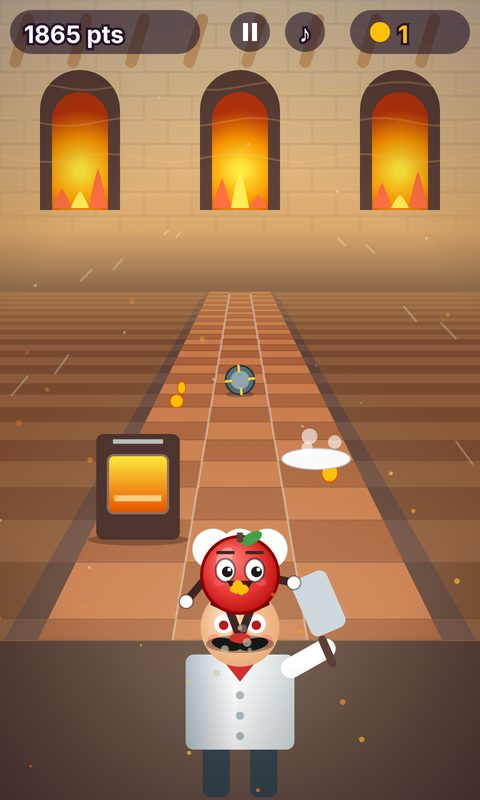
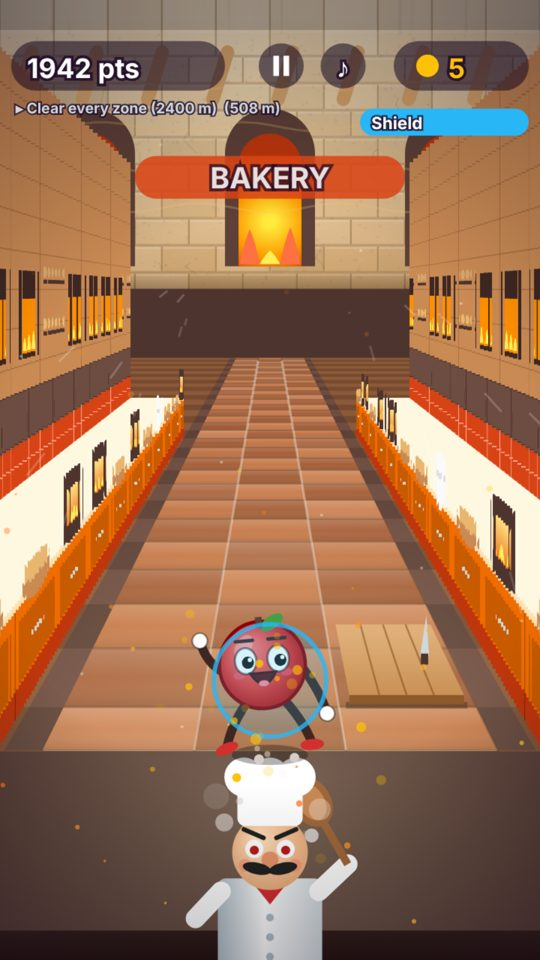
Add files via upload

diff --git a/www/index.html b/www/index.html
@@ -17,7 +17,7 @@ canvas{background:#000;touch-action:none;user-select:none;-webkit-user-select:no
 const cv=document.getElementById('c'),ctx=cv.getContext('2d',{alpha:false,desynchronized:true});
 const W=480,H=800,HOR=230,GY=640,LW=135,CX=240;
 let VH=H,DY=0,rdy=0;
-function fit(){const ar=innerHeight/innerWidth,o=VH;VH=ar>H/W?Math.min(1100,Math.round(W*ar)):H;DY=(VH-H)/2;const s=Math.min(innerWidth/W,innerHeight/VH);cv.style.width=W*s+'px';cv.style.height=VH*s+'px';if(rdy&&o!=VH)setQ()}
+function fit(){if(document.getElementById('nm'))return;const ar=innerHeight/innerWidth,o=VH;VH=ar>H/W?Math.min(1100,Math.round(W*ar)):H;DY=(VH-H)/2;const s=Math.min(innerWidth/W,innerHeight/VH);cv.style.width=W*s+'px';cv.style.height=VH*s+'px';if(rdy&&o!=VH){cv.width=W*R;cv.height=VH*R}}
 addEventListener('resize',fit);fit();
 let R=1,WT={};function setQ(){WT={};R=Q=='low'?1:Math.min(1.5,Math.max(1.25,(window.devicePixelRatio||1)*.6));cv.width=W*R;cv.height=VH*R}
 rdy=1;
@@ -99,6 +99,8 @@ function pr(x,y,cur,n,sz,col){ctx.font='bold '+sz+'px "Trebuchet MS",system-ui,s
 function pills(){ctx.fillStyle='rgba(20,8,32,.55)';ctx.beginPath();ctx.roundRect(10,10,118,36,18);ctx.roundRect(136,10,118,36,18);ctx.fill();coinI(30,28,9);tx(''+bank,46,36,20,'#ffc107','left');gem(156,28,11);tx(''+gems,172,36,20,'#4dd0e1','left')}
 const SHOPI=[{n:'Kalkan',d:'Sonraki koşu: kalkanla başla',c:120,col:'#29b6f6',ic:'K'},{n:'Mıknatıs',d:'Sonraki koşu: 10 sn mıknatıs',c:100,col:'#ef5350',ic:'M'},{n:'Güç Uzatıcı',d:'Mıknatıs ve x2 süresi +1 sn',c:[400,700,1000,1500,2000],col:'#ab47bc',ic:'+'},{n:'Şef Kovucu',d:'Şef daha çabuk geri çekilir',c:[500,900,1400],col:'#78909c',ic:'Ş'}];
 function itemCost(i){return i<2?SHOPI[i].c:(UP[i-2]>=SHOPI[i].c.length?-1:SHOPI[i].c[UP[i-2]])}
+function oldIAP(k){const p=priceOf(k),m=(''+p).match(/[\d.,]+/);if(!m)return'';const c=m[0].includes(',');let n=parseFloat(c?m[0].replace(/\./g,'').replace(',','.'):m[0]);if(!(n>0))return'';let o=(n*2).toFixed(2);if(c)o=o.replace('.',',');return(''+p).replace(m[0],o)}
+function oldP(x,y,n,sz){ctx.font=sz+'px sans-serif';const w=ctx.measureText(''+n).width;tx(''+n,x,y,sz,'#cfd8dc');ctx.fillStyle='#ff5252';ctx.fillRect(x-w/2,y-sz*.32,w,2)}
 function poor(m){adNote(m);snd(180,.2,'square',.06,-60)}
 function buyGem(n,c){const d=DK();if(!ts.gc||ts.gc.d!=d)ts.gc={d,n:0};if(ts.gc.n+n>5){poor(LANG=='en'?'Daily gem limit (5) reached':'Günlük elmas limiti (5) doldu');return}if(bank>=c){ts.gc.n+=n;bank-=c;gems+=n;sv();snd(900,.12,'square',.06,500);snd(1300,.2,'triangle',.07,300);adNote('Elmas aldın!')}else poor('Yeterli altın yok')}
 function buyItem(i){const c=itemCost(i);if(c<0)return;if(i<2&&IV[i]>=9){adNote('Envanter dolu');return}if(bank<c){poor('Yeterli altın yok');return}bank-=c;if(i<2)IV[i]++;else UP[i-2]++;sv();snd(700,.15,'triangle',.08,400);adNote('Satın alındı!')}
@@ -202,7 +204,7 @@ function act(a){
  if(a=='D'){if(g.jy>0)g.vy=-16;else{g.sl=sel==1?1.15:.7;g.cs3++;snd(260,.2,'sawtooth',.04,-150)}}
 }
 addEventListener('keydown',e=>{
- if(document.getElementById('nm'))return;const k=e.key;if(spl>0){spl=Math.min(spl,.5);return}
+ if(document.getElementById('nm'))return;const k=e.key;if(spl>0){if(warmI>=4)spl=Math.min(spl,.5);return}
  if(['ArrowLeft','ArrowRight','ArrowUp','ArrowDown',' '].includes(k))e.preventDefault();
  unlock();if(k=='m'||k=='M'){toggleAll();return}if(paused){if(k=='p'||k=='P'||k=='Escape'||k==' '||k=='Enter')paused=false;return}if(st=='play'&&(k=='p'||k=='P'||k=='Escape')){paused=true;return}
  if(st=='play'&&g.stuck){if(k==' '||k=='Enter')spam();return}
@@ -216,7 +218,7 @@ addEventListener('keydown',e=>{
 });
 let p0=null;
 const pos=e=>{const r=cv.getBoundingClientRect();return[(e.clientX-r.left)*W/r.width,(e.clientY-r.top)*VH/r.height-DY]};
-cv.addEventListener('pointerdown',e=>{unlock();if(spl>0){spl=Math.min(spl,.5);return}if(adT>0)return;if(paused){paused=false;return}if(st=='play'&&g.stuck)spam();p0={x:e.clientX,y:e.clientY,done:0};cv.setPointerCapture(e.pointerId)});
+cv.addEventListener('pointerdown',e=>{unlock();if(spl>0){if(warmI>=4)spl=Math.min(spl,.5);return}if(adT>0)return;if(paused){paused=false;return}if(st=='play'&&g.stuck)spam();p0={x:e.clientX,y:e.clientY,done:0};cv.setPointerCapture(e.pointerId)});
 cv.addEventListener('pointermove',e=>{
  if(!p0||p0.done||st!='play')return;
  const dx=e.clientX-p0.x,dy=e.clientY-p0.y;
@@ -228,15 +230,15 @@ cv.addEventListener('pointerup',e=>{
  if(st=='ob'){if(inR(110,700,260,60))obNext();else if(obS==0&&inR(130,770,220,30)){obd=1;sv();st='menu'}return}
  if(st=='menu'){
   if(inR(120,560,240,76)){goSel();snd(520,.08,'sine',.06)}
-  else if(dailyR()&&inR(110,215,260,42))claim();
+  else if(dailyR()&&inR(110,286,260,42))claim();
   else if(inR(262,10,208,36)){st='prof';snd(520,.06,'sine',.05)}
-  else{for(let i=0;i<6;i++){if(Math.hypot(x-NAVX[i],y-714)<34){snd(520,.06,'sine',.05);const k=NAVK[i];if(k=='lb'){st='lb';lbTab=LBU?1:0;lbData=null;if(LBU)lbFetch()}else if(k=='cos'){st='cos';cview=sel;cprev=seq[sel]}else if(k=='badges'){st='badges';bpg=0;bsel=0}else st=k}}}
+  else{for(let i=0;i<6;i++){if(Math.hypot(x-NAVX[i],y-714)<34){snd(520,.06,'sine',.05);const k=NAVK[i];if(k=='lb'){st='lb';lbTab=1;lbData=null;if(LBU)lbFetch()}else if(k=='cos'){st='cos';cview=sel;cprev=seq[sel]}else if(k=='badges'){st='badges';bpg=0;bsel=0}else st=k}}}
  }else if(st=='select'){
   for(let i=0;i<8;i++){const x0=8+(i%4)*115,y0=392+(i>>2)*102;if(inR(x0,y0,107,94)){view=i;if(have[i]){sel=i;sv()}snd(520,.05,'sine',.05)}}
   if(inR(100,610,280,70))selAction();
   else if(inR(120,696,240,56))st='menu';
  }else if(st=='lb'){
-  if(inR(20,108,140,40))lbTab=0;else if(inR(170,108,140,40)){lbTab=1;lbData=null;lbFetch()}else if(inR(320,108,140,40)){lbTab=2;lbData=null;lbFetch()}else if(inR(130,624,220,42))rename();else if(inR(120,700,240,52))st='menu';
+  if(inR(50,108,180,40)){lbTab=1;lbData=null;lbFetch()}else if(inR(250,108,180,40)){lbTab=2;lbData=null;lbFetch()}else if(inR(130,624,220,42))rename();else if(inR(120,700,240,52))st='menu';
  }else if(st=='cos'){
   const k=cview;if(Math.hypot(x-(CX-170),y-250)<34){cview=(cview+7)%8;cprev=seq[cview];snd(520,.05,'sine',.05)}else if(Math.hypot(x-(CX+170),y-250)<34){cview=(cview+1)%8;cprev=seq[cview];snd(520,.05,'sine',.05)}
   for(let j=-1;j<2;j++)if(inR(14+(j+1)*154,350,146,150)){cprev=j+1;snd(520,.05,'sine',.05)}
@@ -430,7 +432,7 @@ function progress(s){const tot=Math.floor(s/25)+5,x=Math.max(0,tot-(g.xpP||0));g
 // haftalık
 const WK=()=>Math.floor((Date.now()/864e5+3)/7),wkLeft=()=>{const e=((WK()+1)*7-3)*864e5-Date.now(),d=Math.floor(e/864e5),h=Math.floor(e%864e5/36e5);return d+(LANG=='en'?'d ':'g ')+h+(LANG=='en'?'h':'s')};
 function wkPost(s){if(!LBU)return;const w=WK();if(!ts.wb||ts.wb.w!=w)ts.wb={w,s:0};if(s<=ts.wb.s)return;ts.wb.s=s;sv();try{fetch(LBU+'/weekly/'+w+'/'+uid+'.json',{method:'PUT',body:JSON.stringify({n:pname,s,t:Date.now()})}).catch(()=>{})}catch(e){}}
-function wkReward(){if(!LBU)return;const pw=WK()-1,id='w'+pw;if(ecl.includes(id))return;fetch(LBU+'/weekly/'+pw+'.json?orderBy='+encodeURIComponent('"s"')+'&limitToLast=3').then(r=>r.json()).then(d=>{if(!d||d.error)return;const L=Object.entries(d).filter(([k,v])=>v&&typeof v.s=='number').sort((a,b)=>b[1].s-a[1].s),i=L.findIndex(e=>e[0]==uid);ecl.push(id);if(i>=0){const gm=[10,5,3][i];gems+=gm;ntoast((LANG=='en'?'Weekly rank #':'Haftalık sıralama #')+(i+1)+'!',(LANG=='en'?'Reward: +':'Ödül: +')+gm+(LANG=='en'?' gems':' elmas'),'#e65100')}sv()}).catch(()=>{})}
+function wkReward(){if(!LBU)return;const pw=WK()-1,id='w'+pw;if(ecl.includes(id))return;fetch(LBU+'/weekly/'+pw+'.json?orderBy='+encodeURIComponent('"s"')+'&limitToLast=1').then(r=>r.json()).then(d=>{if(!d||d.error)return;const L=Object.entries(d).filter(([k,v])=>v&&typeof v.s=='number').sort((a,b)=>b[1].s-a[1].s),i=L.findIndex(e=>e[0]==uid);ecl.push(id);if(i>=0){if(i>0){sv();return}const gm=3;gems+=gm;ntoast((LANG=='en'?'Weekly rank #':'Haftalık sıralama #')+(i+1)+'!',(LANG=='en'?'Reward: +':'Ödül: +')+gm+(LANG=='en'?' gems':' elmas'),'#e65100')}sv()}).catch(()=>{})}
 // premium / ödeme
 const PAY={prices:{premium:'₺149,99',noads:'₺49,99',g50:'₺29,99',g150:'₺79,99',g400:'₺169,99'}},PID={premium:'premium_chef',noads:'remove_ads',g50:'gems_50',g150:'gems_150',g400:'gems_400'},GEMQ={gems_50:50,gems_150:150,gems_400:400};
 let IAP=null;
@@ -472,12 +474,13 @@ function drawIntro(dt){spl-=dt;const T0=3.4,e=T0-spl,p=Math.min(1,e/2.9),a=Math.
  ctx.save();ctx.globalAlpha=a;const bgG=ctx.createLinearGradient(0,0,0,H);bgG.addColorStop(0,'#2b1240');bgG.addColorStop(1,'#0e0516');ctx.fillStyle=bgG;ctx.fillRect(0,0,W,H);
  const sp=ctx.createRadialGradient(CX,520,20,CX,520,400);sp.addColorStop(0,'rgba(255,214,140,.3)');sp.addColorStop(1,'rgba(255,214,140,0)');ctx.fillStyle=sp;ctx.fillRect(0,0,W,H);
  ctx.fillStyle='rgba(255,255,255,.05)';for(let i=0;i<9;i++){const y=380+((i*70+e*260)%420);ctx.fillRect(0,y,W,2+(y-380)*.02)}
- const tk=ez(e/.8);if(LG.complete&&LG.naturalWidth){ctx.save();ctx.globalAlpha=a*tk;ctx.translate(CX,205);const k=(.75+.25*tk)*.92;ctx.scale(k,k);ctx.shadowColor='rgba(0,0,0,.5)';ctx.shadowBlur=24;ctx.beginPath();ctx.roundRect(-175,-175,350,350,40);ctx.fillStyle='#000';ctx.fill();ctx.shadowBlur=0;ctx.save();ctx.clip();ctx.drawImage(LG,-175,-175,350,350);ctx.restore();ctx.strokeStyle='#ffd54f';ctx.lineWidth=4;ctx.stroke();ctx.restore()}else{tx('ESCAPE FROM THE CHEF',CX,200,34,'#ffd54f')}
+ const tk=ez(e/.8);if(LG.complete&&LG.naturalWidth){ctx.save();ctx.globalAlpha=a*tk;ctx.translate(CX,205);const k=(.75+.25*tk)*.92;ctx.scale(k,k);ctx.beginPath();ctx.roundRect(-175,-175,350,350,40);ctx.fillStyle='#000';ctx.fill();ctx.save();ctx.clip();ctx.drawImage(LG,-175,-175,350,350);ctx.restore();ctx.strokeStyle='#ffd54f';ctx.lineWidth=4;ctx.stroke();ctx.restore()}else{tx('ESCAPE FROM THE CHEF',CX,200,34,'#ffd54f')}
  const x=-90+(CX+90)*ez(e/1.5),y=590-Math.abs(Math.sin(e*9))*10;ctx.fillStyle='rgba(0,0,0,.35)';ctx.beginPath();ctx.ellipse(x,596,60,12,0,0,7);ctx.fill();
  chef(x-230+Math.sin(e*3)*6,830,62,e,0);fruit(0,x,y,100,e*9,0,0);
  ctx.fillStyle='rgba(255,255,255,.14)';ctx.beginPath();ctx.roundRect(90,690,300,16,8);ctx.fill();ctx.fillStyle='#66bb6a';ctx.beginPath();ctx.roundRect(90,690,Math.max(16,300*p),16,8);ctx.fill();
  tx((LANG=='en'?'Loading... ':'Yükleniyor... ')+Math.floor(p*100)+'%',CX,676,18,'#fff');tx(TIPS[Math.floor(e/.9)%TIPS.length][LANG=='en'?1:0],CX,736,15,'#ffd54f');
  ctx.restore();
+ if(warmI<4){spl=Math.max(spl,.6);ctx.fillStyle='rgba(0,0,0,.35)';ctx.fillRect(140,742,200,10);ctx.fillStyle='#ffd54f';ctx.fillRect(140,742,200*warmI/4,10);ctx.fillStyle='#fff';ctx.font='bold 14px sans-serif';ctx.textAlign='center';ctx.fillText('Yükleniyor...',240,732)}
  if(spl<=0){spl=0;if(!obd&&st=='menu'){st='ob';obS=0}}}
 function tutStart(){reset();g.cd=1.3;g.sp=8;st='play';Object.assign(tut,{on:1,s:0,c:0,t:0,sp:0})}
 function tutNext(){tut.s++;tut.sp=0;tut.t=0;snd(660,.15,'triangle',.1,300);burst(CX+g.px*LW,GY-60,'#ffd54f',12)}
@@ -630,12 +633,17 @@ function ambFg(zi){if(Q=='low'&&zi!=1&&zi!=3)return;const t=g.t,n=Q=='low'?.5:1;
  else if(zi==2){for(let i=0;i<16*n;i++){const x=(i*71)%W,y=(i*109)%H*.9+20,k=(Math.sin(t*2.4+i*1.9)+1)/2,r=2+k*4;ctx.fillStyle='rgba(255,224,130,'+(k*.9)+')';ctx.beginPath();ctx.moveTo(x,y-r);ctx.lineTo(x+r*.3,y-r*.3);ctx.lineTo(x+r,y);ctx.lineTo(x+r*.3,y+r*.3);ctx.lineTo(x,y+r);ctx.lineTo(x-r*.3,y+r*.3);ctx.lineTo(x-r,y);ctx.lineTo(x-r*.3,y-r*.3);ctx.fill()}}
  else{for(let i=0;i<34*n;i++){const ph=(t*.35*(1+i%3*.4)+i*.137)%1,x=((i*61)%W)+Math.sin(t*2+i)*14,y=H-ph*H*.85;ctx.fillStyle='rgba(255,'+(120+i%4*30)+',40,'+((1-ph)*.9)+')';ctx.beginPath();ctx.arc(x,y,1.2+(i%3)*.8,0,7);ctx.fill()}
   ctx.fillStyle='rgba(255,255,255,.35)';for(let i=0;i<12*n;i++){const x=((i*89)%W+t*14+W)%W,y=(i*47+t*10)%H;ctx.beginPath();ctx.arc(x,y,1.4,0,7);ctx.fill()}}}
+function farSide(PL,zi,zA){const zB=zA+(Q=='low'?26:60),sa=S(zA),sb=S(zB),ya=Yz(zA),yb=Yz(zB),W0=['#fff3e0','#e3f2fd','#6a1b4d','#c98a54'][zi];
+ for(const m of[-1,1]){const xi=(s,o)=>CX+m*(1.8+o)*LW*s,q=(o0,o1,hA,hB,f)=>{ctx.fillStyle=f;ctx.beginPath();ctx.moveTo(xi(sa,o0),ya-hA*sa);ctx.lineTo(xi(sb,o0),yb-hA*sb);ctx.lineTo(xi(sb,o1),yb-hB*sb);ctx.lineTo(xi(sa,o1),ya-hB*sa);ctx.fill()};
+  q(1.1,1.1,248,760,W0);q(1.1,1.1,170,250,zi==2?'#8d6e63':PL.up);q(1.1,1.1,104,170,PL.bs);q(0,1.1,104,104,PL.top);q(0,0,0,104,PL.b);
+  ctx.strokeStyle='rgba(0,0,0,.2)';ctx.lineWidth=1;ctx.beginPath();for(let z=Math.ceil(zA/4.8)*4.8;z<zB;z+=4.8){const s2=S(z),y2=Yz(z);ctx.moveTo(xi(s2,0),y2);ctx.lineTo(xi(s2,0),y2-104*s2);ctx.moveTo(xi(s2,1.1),y2-104*s2);ctx.lineTo(xi(s2,1.1),y2-250*s2)}ctx.stroke()}}
 function sideProps(zi){const t=g.t,SL=2.4,k0=Math.floor(g.d/SL),PL=[
  {b:'#26c6da',b2:'#00838f',tr:'#ffffff',top:'#ffcc80',up:'#ff7043',bs:'#fffde7',bl:'#ffab91'},
  {b:'#4fc3f7',b2:'#0277bd',tr:'#ffffff',top:'#e1f5fe',up:'#7e57c2',bs:'#e1f5fe',bl:'#90caf9'},
  {b:'#8e24aa',b2:'#4a148c',tr:'#ffd54f',top:'#fff3e0',up:'#c62828',bs:'#ffe0b2',bl:'#ffca28'},
  {b:'#ef6c00',b2:'#bf360c',tr:'#ffe0b2',top:'#fff8e1',up:'#6d4c41',bs:'#d84315',bl:'#ffab91'}][zi];
- for(let k=k0+(Q=='low'?7:9);k>=k0;k--){const za=Math.max(.05,k*SL-g.d),zb=k*SL+SL-g.d;if(zb<=.05)continue;const sa=S(za),sb=S(zb),ya=Yz(za),yb=Yz(zb);
+ farSide(PL,zi,(k0+(Q=='low'?8:10))*SL-g.d);
+ for(let k=k0+(Q=='low'?7:9);k>=k0;k--){const za=Math.max(.05,k*SL-g.d),zb=k*SL+SL-g.d;if(zb<=.05)continue;const sa=S(za),sb=S(zb),ya=Yz(za),yb=Yz(zb),far=za>13;
   for(const m of[-1,1]){const hs=((k*2654435761^(m>0?97:13))>>>0),h0=hs%100,xi=(s,o)=>CX+m*(1.8+o)*LW*s,H1=104,H2=170,H3=250;
    const Q4=(o0,o1,hA,hB)=>{ctx.beginPath();ctx.moveTo(xi(sa,o0),ya-hA*sa);ctx.lineTo(xi(sb,o0),yb-hA*sb);ctx.lineTo(xi(sb,o1),yb-hB*sb);ctx.lineTo(xi(sa,o1),ya-hB*sa);ctx.closePath();ctx.fill()};
 
@@ -651,7 +659,7 @@ function sideProps(zi){const t=g.t,SL=2.4,k0=Math.floor(g.d/SL),PL=[
      else if(wd==2){box(.4,.6,300,470,'#fff');box(.47,.53,310,390,'#e53935');ctx.fillStyle='#e53935';const c0=P(.5,305);ctx.beginPath();ctx.arc(c0[0],c0[1],9*sm2,0,7);ctx.fill()}
      else{for(let j=0;j<3;j++){box(.08+j*.3,.34+j*.3,330,336,'#81d4fa');box(.12+j*.3,.3+j*.3,336,372,'#b3e5fc')}}}
     else if(zi==2){if(wd<2){box(.18,.82,300,450,'#ffd54f');box(.24,.76,308,442,wd?'#9575cd':'#26a69a');box(.3,.7,330,380,'rgba(255,255,255,.25)')}
-     else{const c0=P(.5,400);const gl=ctx.createRadialGradient(c0[0],c0[1],2,c0[0],c0[1],70*sm2);gl.addColorStop(0,'rgba(255,224,130,.8)');gl.addColorStop(1,'rgba(255,224,130,0)');ctx.fillStyle=gl;ctx.fillRect(c0[0]-70*sm2,c0[1]-70*sm2,140*sm2,140*sm2);ctx.fillStyle='#ffd54f';ctx.beginPath();ctx.arc(c0[0],c0[1],12*sm2,0,7);ctx.fill();box(.46,.54,300,380,'#6d4c41')}}
+     else{const c0=P(.5,400);ctx.fillStyle='rgba(255,224,130,.22)';ctx.beginPath();ctx.arc(c0[0],c0[1],52*sm2,0,7);ctx.fill();ctx.fillStyle='rgba(255,224,130,.3)';ctx.beginPath();ctx.arc(c0[0],c0[1],28*sm2,0,7);ctx.fill();ctx.fillStyle='#ffd54f';ctx.beginPath();ctx.arc(c0[0],c0[1],12*sm2,0,7);ctx.fill();box(.46,.54,300,380,'#6d4c41')}}
     else{if(wd<2){box(.2,.8,300,440,'#3e2723');box(.27,.73,308,395,'#ff8f00');for(let j=0;j<3;j++){const c0=P(.36+j*.14,312),hh=(34+14*Math.sin(t*12+j*2+k))*sm2;ctx.fillStyle='#ffee58';ctx.beginPath();ctx.moveTo(c0[0]-9*sm2,c0[1]);ctx.quadraticCurveTo(c0[0],c0[1]-hh*1.2,c0[0]+9*sm2,c0[1]);ctx.fill()}}
      else{box(.08,.92,330,337,'#4e342e');for(let j=0;j<4;j++){const c0=P(.16+j*.2,350);ctx.fillStyle='#e8b66e';ctx.beginPath();ctx.ellipse(c0[0],c0[1],15*sm2,10*sm2,0,0,7);ctx.fill()}box(.08,.92,420,427,'#4e342e');for(let j=0;j<4;j++){const c0=P(.16+j*.2,440);ctx.fillStyle='#d7a86e';ctx.beginPath();ctx.ellipse(c0[0],c0[1],15*sm2,10*sm2,0,0,7);ctx.fill()}}}}
    // counter body (inner face)
@@ -662,12 +670,12 @@ function sideProps(zi){const t=g.t,SL=2.4,k0=Math.floor(g.d/SL),PL=[
    ctx.fillStyle=PL.top;ctx.beginPath();ctx.moveTo(xi(sa,0),ya-H1*sa);ctx.lineTo(xi(sb,0),yb-H1*sb);ctx.lineTo(xi(sb,1.1),yb-H1*sb);ctx.lineTo(xi(sa,1.1),ya-H1*sa);ctx.fill();
    ctx.strokeStyle=PL.tr;ctx.lineWidth=Math.max(1.5,4*sa);ctx.beginPath();ctx.moveTo(xi(sa,0),ya-H1*sa);ctx.lineTo(xi(sb,0),yb-H1*sb);ctx.stroke();
    // handles
-   ctx.fillStyle='#cfd8dc';{const o=.0,zc=(za+zb)/2,sc=S(zc),yc=Yz(zc);ctx.fillRect(xi(sc,o)-m*0-3*sc,yc-50*sc,6*sc,4*sc)}
+   if(!far){ctx.fillStyle='#cfd8dc';{const o=.0,zc=(za+zb)/2,sc=S(zc),yc=Yz(zc);ctx.fillRect(xi(sc,o)-m*0-3*sc,yc-50*sc,6*sc,4*sc)}}
    const zm=(za+zb)/2,sm=S(zm),ym=Yz(zm),px=xi(sm,.3),py=ym-H1*sm,kd=h0%6;
    ctx.fillStyle=PL.bs;Q4(1.1,1.1,H1,H2);ctx.strokeStyle=PL.bl;ctx.lineWidth=Math.max(1,2*sa);ctx.beginPath();for(const hh of[H1,(H1+H2)/2,H2]){ctx.moveTo(xi(sa,1.1),ya-hh*sa);ctx.lineTo(xi(sb,1.1),yb-hh*sb)}ctx.moveTo(xi(sa,1.1),ya-H1*sa);ctx.lineTo(xi(sa,1.1),ya-H2*sa);ctx.stroke();
    // items on worktop
    if(zi==0){
-    ctx.save();ctx.translate(px,py);ctx.scale(1.55,1.55);ctx.translate(-px,-py);if(kd==0||kd==3){ctx.fillStyle='#455a64';ctx.beginPath();ctx.ellipse(px,py-22*sm,26*sm,9*sm,0,0,7);ctx.fill();ctx.fillRect(px-26*sm,py-22*sm,52*sm,22*sm);ctx.fillStyle='#37474f';ctx.beginPath();ctx.ellipse(px,py,26*sm,9*sm,0,0,7);ctx.fill();ctx.fillStyle='#263238';ctx.beginPath();ctx.ellipse(px,py-22*sm,26*sm,9*sm,0,0,7);ctx.fill();if(Q!='low'){ctx.fillStyle='rgba(255,255,255,.75)';for(let q=0;q<3;q++){const ph=(t*.9+q*.33+k*.37)%1;ctx.globalAlpha=1-ph;ctx.beginPath();ctx.arc(px+Math.sin(ph*5+q)*6*sm,py-30*sm-ph*60*sm,(8+ph*12)*sm,0,7);ctx.fill()}ctx.globalAlpha=1}}
+    ctx.save();ctx.translate(px,py);ctx.scale(1.55,1.55);ctx.translate(-px,-py);if(kd==0||kd==3){ctx.fillStyle='#455a64';ctx.beginPath();ctx.ellipse(px,py-22*sm,26*sm,9*sm,0,0,7);ctx.fill();ctx.fillRect(px-26*sm,py-22*sm,52*sm,22*sm);ctx.fillStyle='#37474f';ctx.beginPath();ctx.ellipse(px,py,26*sm,9*sm,0,0,7);ctx.fill();ctx.fillStyle='#263238';ctx.beginPath();ctx.ellipse(px,py-22*sm,26*sm,9*sm,0,0,7);ctx.fill();if(Q!='low'&&!far){ctx.fillStyle='rgba(255,255,255,.75)';for(let q=0;q<3;q++){const ph=(t*.9+q*.33+k*.37)%1;ctx.globalAlpha=1-ph;ctx.beginPath();ctx.arc(px+Math.sin(ph*5+q)*6*sm,py-30*sm-ph*60*sm,(8+ph*12)*sm,0,7);ctx.fill()}ctx.globalAlpha=1}}
     else if(kd==1){ctx.fillStyle='#c58c4f';ctx.beginPath();ctx.ellipse(px,py-3*sm,30*sm,10*sm,0,0,7);ctx.fill();for(const[c,dx]of[['#e53935',-10],['#43a047',0],['#ffb300',11]]){ctx.fillStyle=c;ctx.beginPath();ctx.arc(px+dx*sm,py-9*sm,8*sm,0,7);ctx.fill()}}
     else if(kd==2){for(const[c,dx,hh]of[['#8bc34a',-14,34],['#ff7043',0,42],['#fdd835',14,30]]){ctx.fillStyle=c;ctx.beginPath();ctx.roundRect(px+dx*sm-6*sm,py-hh*sm,12*sm,hh*sm,3*sm);ctx.fill()}}
     else if(kd==4){const fy=py-14*sm;ctx.fillStyle='#212121';ctx.beginPath();ctx.ellipse(px,py-2*sm,30*sm,10*sm,0,0,7);ctx.fill();for(let j=0;j<4;j++){const fx=px+(j-1.5)*9*sm,fh=(26+12*Math.sin(t*16+j*2+k))*sm;ctx.fillStyle=j%2?'#ffca28':'#ff5722';ctx.beginPath();ctx.moveTo(fx-5*sm,py-2*sm);ctx.quadraticCurveTo(fx-4*sm,py-fh*.6,fx,py-fh);ctx.quadraticCurveTo(fx+4*sm,py-fh*.6,fx+5*sm,py-2*sm);ctx.fill()}}
@@ -675,7 +683,7 @@ function sideProps(zi){const t=g.t,SL=2.4,k0=Math.floor(g.d/SL),PL=[
     ctx.restore();
     // upper cabinets + hanging pots
     ctx.fillStyle=PL.up;Q4(1.1,1.1,H2,H3);ctx.strokeStyle='rgba(0,0,0,.35)';ctx.lineWidth=Math.max(1,2*sa);ctx.beginPath();ctx.moveTo(xi(sa,1.1),ya-H2*sa);ctx.lineTo(xi(sa,1.1),ya-H3*sa);ctx.stroke();
-    if(h0%2){ctx.strokeStyle='#546e7a';ctx.lineWidth=Math.max(1,2*sm);ctx.beginPath();ctx.moveTo(xi(sm,1.05),ym-235*sm);ctx.lineTo(xi(sm,1.05),ym-262*sm);ctx.stroke();ctx.fillStyle='#90a4ae';ctx.beginPath();ctx.arc(xi(sm,1.05),ym-236*sm+Math.sin(t*1.6+k)*2*sm,9*sm,0,Math.PI);ctx.fill()}
+    if(h0%2&&!far&&Q!='low'){ctx.strokeStyle='#546e7a';ctx.lineWidth=Math.max(1,2*sm);ctx.beginPath();ctx.moveTo(xi(sm,1.05),ym-235*sm);ctx.lineTo(xi(sm,1.05),ym-262*sm);ctx.stroke();ctx.fillStyle='#90a4ae';ctx.beginPath();ctx.arc(xi(sm,1.05),ym-236*sm+Math.sin(t*1.6+k)*2*sm,9*sm,0,Math.PI);ctx.fill()}
    }else if(zi==1){
     ctx.save();ctx.translate(px,py);ctx.scale(1.55,1.55);ctx.translate(-px,-py);ctx.fillStyle='#fff';ctx.beginPath();ctx.ellipse(px,py-3*sm,30*sm,10*sm,0,0,7);ctx.fill();for(const dx of[-14,0,14]){ctx.fillStyle=kd%2?'#81d4fa':'#b3e5fc';ctx.strokeStyle='#4fc3f7';ctx.lineWidth=Math.max(1,2*sm);ctx.fillRect(px+dx*sm-9*sm,py-24*sm,18*sm,20*sm);ctx.strokeRect(px+dx*sm-9*sm,py-24*sm,18*sm,20*sm)}
     ctx.restore();ctx.fillStyle=PL.up;Q4(1.1,1.1,H2,H3);ctx.fillStyle='rgba(255,255,255,.7)';Q4(1.1,1.1,H3-8,H3);
@@ -758,10 +766,11 @@ if(g.splat>0){ctx.fillStyle='rgba(200,30,30,'+Math.min(.32,g.splat*.3)+')';ctx.f
  if(st=='menu'||st=='select'||st=='set'||st=='shop'||st=='goals'||st=='lb'||st=='cos'||st=='prof'||st=='badges'||st=='prem'||st=='ob'){
   ctx.fillStyle='rgba(20,8,32,.62)';ctx.fillRect(0,-DY,W,VH);
   if(st=='menu'){
-   ctx.fillStyle='#c62828';ctx.strokeStyle='#fff';ctx.lineWidth=5;ctx.beginPath();ctx.roundRect(36,62,408,112,18);ctx.fill();ctx.stroke();{const b=Math.sin(g.t*3)*3;tx('ESCAPE FROM',CX,105+b,36,'#fff');tx('THE CHEF',CX,158+b,62,'#ffd54f')}tx('Şef peşinde! Engellerden kaç.',CX,201,20,'#fff');
-   if(dailyR())btn(110,215,260,42,'GÜNLÜK ÖDÜL +'+dailyR(),'#ef6c00');
-   ctx.fillStyle='rgba(0,0,0,.3)';ctx.beginPath();ctx.ellipse(CX,478,80,15,0,0,7);ctx.fill();fruit(sel,CX,474-Math.abs(Math.sin(g.run))*8,92,g.run,0,seq[sel]);
-   {const pl=1+Math.sin(g.t*4)*.04;ctx.save();ctx.translate(CX,598);ctx.scale(pl,pl);ctx.translate(-CX,-598);ctx.shadowColor='rgba(102,187,106,.8)';ctx.shadowBlur=24;btn(120,560,240,76,'OYNA','#43a047',34);ctx.restore()}tx('En iyi: '+best,CX,662,18,'#fff');pills();gtoast();
+   {const bb=Math.sin(g.t*2)*3;ctx.save();ctx.translate(CX,150+bb);ctx.beginPath();ctx.roundRect(-98,-98,196,196,26);ctx.fillStyle='#000';ctx.fill();if(LG.complete&&LG.naturalWidth){ctx.save();ctx.clip();ctx.drawImage(LG,-98,-98,196,196);ctx.restore()}ctx.strokeStyle='#ffd54f';ctx.lineWidth=4;ctx.stroke();ctx.restore()}
+   tx('Şef peşinde! Engellerden kaç.',CX,270,19,'#fff');
+   if(dailyR())btn(110,286,260,42,'GÜNLÜK ÖDÜL +'+dailyR(),'#ef6c00');
+   ctx.fillStyle='rgba(0,0,0,.3)';ctx.beginPath();ctx.ellipse(CX,512,80,15,0,0,7);ctx.fill();fruit(sel,CX,508-Math.abs(Math.sin(g.run))*8,88,g.run,0,seq[sel]);
+   {const pl=1+Math.sin(g.t*4)*.04;ctx.save();ctx.translate(CX,598);ctx.scale(pl,pl);ctx.translate(-CX,-598);btn(120,560,240,76,'OYNA','#43a047',34);ctx.restore()}tx('En iyi: '+best,CX,662,18,'#fff');pills();gtoast();
    ctx.fillStyle='rgba(20,8,32,.78)';ctx.strokeStyle='rgba(255,213,79,.6)';ctx.lineWidth=2;ctx.beginPath();ctx.roundRect(14,676,452,100,22);ctx.fill();ctx.stroke();
    for(let i=0;i<6;i++){const x=NAVX[i];ctx.fillStyle='rgba(255,255,255,.1)';ctx.beginPath();ctx.arc(x,714,27,0,7);ctx.fill();navIcon(i,x,714);tx(NAVL[i][LANG=='en'?1:0],x,758,12,'#fff')}
    {const l=lvOf(xp);ctx.fillStyle='rgba(20,8,32,.6)';ctx.beginPath();ctx.roundRect(262,10,208,36,18);ctx.fill();tx((LANG=='en'?'Lv ':'Sv ')+(l+1)+' '+lvN(l)+(ent.premium?' ♛':''),366,26,13,'#ffd54f');ctx.fillStyle='rgba(0,0,0,.5)';ctx.fillRect(286,32,160,6);ctx.fillStyle='#66bb6a';ctx.fillRect(286,32,160*(l<9?(xp-LX[l])/(LX[l+1]-LX[l]):1),6)}
@@ -781,7 +790,7 @@ if(g.splat>0){ctx.fillStyle='rgba(200,30,30,'+Math.min(.32,g.splat*.3)+')';ctx.f
    if(ow)btn(100,610,280,70,'BAŞLA','#43a047');else{ctx.fillStyle=(CUR[view]?gems:bank)>=COST[view]?'#ef6c00':'#616161';ctx.beginPath();ctx.roundRect(100,610,280,70,16);ctx.fill();tx('SATIN AL',200,653,24,'#fff');pr(318,653,CUR[view],COST[view],24,'#fff')}btn(120,696,240,56,'GERİ','#5e35b1');
    }else if(st=='lb'){
     tx('SKOR TABLOSU',CX,86,40,'#ffd54f');
-    for(const[bx,lab,i]of[[20,'CİHAZ',0],[170,'DÜNYA',1],[320,'HAFTALIK',2]]){ctx.fillStyle=lbTab==i?'#ef6c00':'rgba(255,255,255,.15)';ctx.beginPath();ctx.roundRect(bx,108,140,40,12);ctx.fill();tx(lab,bx+70,136,i==2?17:20,'#fff')}if(lbTab==2)tx((LANG=='en'?'New week in ':'Yeni hafta: ')+wkLeft()+(LANG=='en'?' • Top 3 win gems':' • İlk 3 elmas kazanır'),CX,160,12,'#b3e5fc');
+    for(const[bx,lab,i]of[[50,'DÜNYA',1],[250,'HAFTALIK',2]]){ctx.fillStyle=lbTab==i?'#ef6c00':'rgba(255,255,255,.15)';ctx.beginPath();ctx.roundRect(bx,108,180,40,12);ctx.fill();tx(lab,bx+90,136,20,'#fff')}if(lbTab==2)tx((LANG=='en'?'New week in ':'Yeni hafta: ')+wkLeft()+(LANG=='en'?' • #1 wins 3 gems':' • 1. olan 3 elmas kazanır'),CX,160,12,'#b3e5fc');
     const off=lbTab>0&&!lbLoad&&(lbErr||!LBU),L=(lbTab==0||off)?ltop:(lbData||[]);if(off)tx(LANG=='en'?'Offline – showing this device':'Çevrimdışı – bu cihazın skorları',CX,596,14,'#ffab91');
     if(lbTab>0&&lbLoad)tx('Yükleniyor...',CX,300,24,'#ddd');
     else if(!L.length)tx('Henüz skor yok. Oyna!',CX,300,20,'#ddd');
@@ -817,14 +826,14 @@ if(g.splat>0){ctx.fillStyle='rgba(200,30,30,'+Math.min(.32,g.splat*.3)+')';ctx.f
    {const b=BADGES[bsel],on=bg.includes(b.id);ctx.fillStyle='rgba(20,8,32,.75)';ctx.beginPath();ctx.roundRect(16,604,448,72,12);ctx.fill();tx(b.t[LANG=='en'?1:0]+' • '+(LANG=='en'?['bronze','silver','gold'][b.tr]:TIERN[b.tr]),24,628,17,TIERC[b.tr],'left');tx(b.d[LANG=='en'?1:0],24,652,15,'#fff','left');tx(on?(LANG=='en'?'✔ Earned':'✔ Kazanıldı'):Math.min(b.n,Math.floor(b.v()))+' / '+b.n,456,628,15,on?'#a5d6a7':'#ffcc80','right');tx('+'+TIERX[b.tr]+' XP',456,652,14,'#b3e5fc','right')}
    btn(16,690,90,50,'◀','#5e35b1',26);btn(374,690,90,50,'▶','#5e35b1',26);btn(120,690,240,50,'GERİ','#5e35b1',22);tx((bpg+1)+'/'+pc,CX,676,12,'#aaa');
   }else if(st=='prem'){
-   tx('PREMIUM',CX,66,42,'#ffd54f');pills();
+   tx('PREMIUM',CX,66,42,'#ffd54f');pills();ctx.fillStyle='#e53935';ctx.beginPath();ctx.roundRect(130,76,220,16,8);ctx.fill();tx(LANG=='en'?'LAUNCH OFFER • 50% OFF':'AÇILIŞA ÖZEL • %50 İNDİRİM',CX,88,11,'#fff');
    ctx.fillStyle=ent.premium?'rgba(255,193,7,.3)':'rgba(255,193,7,.16)';ctx.strokeStyle='#ffd54f';ctx.lineWidth=3;ctx.beginPath();ctx.roundRect(20,92,440,150,16);ctx.fill();ctx.stroke();
    tx('♛ '+(LANG=='en'?'PREMIUM CHEF PACK':'PREMİUM ŞEF PAKETİ'),34,122,20,'#ffd54f','left');
    ['• '+(LANG=='en'?'No ads':'Reklamsız oyun'),'• '+(LANG=='en'?'+25% coins every run':'Her koşuda +%25 altın'),'• '+(LANG=='en'?'1 free revive per run':'Her koşuda 1 ücretsiz devam'),'• '+(LANG=='en'?'+1 gem every day, golden frame, badge':'Günde +1 elmas, altın çerçeve, rozet'),'• '+(LANG=='en'?'Start gift: 500 coins + 20 gems':'Hoşgeldin hediyesi: 500 altın + 20 elmas')].forEach((s,i)=>tx(s,34,148+i*19,13,'#fff','left'));
-   ctx.fillStyle=ent.premium?'#546e7a':'#43a047';ctx.beginPath();ctx.roundRect(330,190,120,44,12);ctx.fill();tx(ent.premium?(LANG=='en'?'OWNED':'SAHİPSİN'):priceOf('premium'),390,219,ent.premium?16:21,'#fff');
+   ctx.fillStyle=ent.premium?'#546e7a':'#43a047';ctx.beginPath();ctx.roundRect(330,190,120,44,12);ctx.fill();if(ent.premium)tx(LANG=='en'?'OWNED':'SAHİPSİN',390,219,16,'#fff');else{oldP(390,205,oldIAP('premium'),11);tx(priceOf('premium'),390,226,20,'#fff')}
    ctx.fillStyle='rgba(255,255,255,.12)';ctx.beginPath();ctx.roundRect(20,254,440,64,14);ctx.fill();tx(LANG=='en'?'REMOVE ADS':'REKLAMLARI KALDIR',34,284,18,'#fff','left');tx(LANG=='en'?'No interstitial ads, forever':'Zorunlu reklam yok, ömür boyu',34,306,13,'#ddd','left');
-   ctx.fillStyle=ent.noads?'#546e7a':'#00897b';ctx.beginPath();ctx.roundRect(330,264,120,44,12);ctx.fill();tx(ent.noads?(LANG=='en'?'OWNED':'SAHİPSİN'):priceOf('noads'),390,293,ent.noads?16:21,'#fff');
-   for(const[i,id,n]of[[0,'g50',50],[1,'g150',150],[2,'g400',400]]){const x=20+i*150;ctx.fillStyle='rgba(255,255,255,.12)';ctx.beginPath();ctx.roundRect(x,330,140,100,14);ctx.fill();gem(x+34,362,14);tx('x'+n,x+54,372,24,'#fff','left');ctx.fillStyle='#00897b';ctx.beginPath();ctx.roundRect(x+12,386,116,34,10);ctx.fill();tx(priceOf(id),x+70,411,15,'#fff')}
+   ctx.fillStyle=ent.noads?'#546e7a':'#00897b';ctx.beginPath();ctx.roundRect(330,264,120,44,12);ctx.fill();if(ent.noads)tx(LANG=='en'?'OWNED':'SAHİPSİN',390,293,16,'#fff');else{oldP(390,279,oldIAP('noads'),11);tx(priceOf('noads'),390,300,20,'#fff')}
+   for(const[i,id,n]of[[0,'g50',50],[1,'g150',150],[2,'g400',400]]){const x=20+i*150;ctx.fillStyle='rgba(255,255,255,.12)';ctx.beginPath();ctx.roundRect(x,330,140,100,14);ctx.fill();gem(x+34,362,14);tx('x'+n,x+54,372,24,'#fff','left');ctx.fillStyle='#00897b';ctx.beginPath();ctx.roundRect(x+12,386,116,34,10);ctx.fill();oldP(x+34,410,oldIAP(id),10);tx(priceOf(id),x+95,411,14,'#fff')}
    ctx.fillStyle='rgba(255,255,255,.12)';ctx.beginPath();ctx.roundRect(20,442,440,64,14);ctx.fill();tx(LANG=='en'?'FREE COINS':'ÜCRETSİZ ALTIN',34,472,18,'#fff','left');{const d=ts.fd&&ts.fd.d==DK()?ts.fd.n:0;tx((LANG=='en'?'Watch an ad: +75 coins ('+(5-d)+' left today)':'Reklam izle: +75 altın (bugün '+(5-d)+' hak)'),34,494,13,'#ddd','left')}
    ctx.fillStyle=ADS?'#8e24aa':'#616161';ctx.beginPath();ctx.roundRect(330,452,120,44,12);ctx.fill();tx('▶ +75',390,481,20,'#fff');
    btn(20,518,440,46,LANG=='en'?'RESTORE PURCHASES':'SATIN ALIMLARI GERİ YÜKLE','#ef6c00',17);
@@ -899,6 +908,8 @@ function mTick(){if(!AC)return;if(!musicOn||!g||paused||st=='over'||adT>0||spl>0
 setInterval(mTick,30);setTimeout(lbSync,2500);setTimeout(()=>{wkReward();BCHK()},3500);setTimeout(iapInit,800);
 reset();let last=performance.now(),fa=0,fn=0;
 let spl=3.4;
-function loop(n){const dt=Math.max(0,Math.min(.05,(n-last)/1000));last=n;if(dt>0)fpsV+=(1/dt-fpsV)*.05;if(Q===''&&st=='play'&&!paused&&g.cd<=0){fa+=dt;fn++;if(fa>5){if(fn/fa<40){Q='low';setQ();g.msg='Grafik: Düşük (Ayarlar)';g.msgT=3}else Q='high';sv();fa=fn=0}}adMsgT=Math.max(0,adMsgT-dt);ctx.setTransform(R,0,0,R,0,DY*R);if(!paused)update(dt);if(DY>0){const bg=ctx.createLinearGradient(0,H-60,0,H+DY);bg.addColorStop(0,'#4e342e');bg.addColorStop(1,'#241410');ctx.fillStyle=bg;ctx.fillRect(0,H-60,W,DY+60)}render();if(DY>0){ctx.setTransform(1,0,0,1,0,0);const py=Math.round(DY*R),by=py+Math.round(H*R),ph=cv.height-by;ctx.drawImage(cv,0,py+2,cv.width,1,0,0,cv.width,py+2);ctx.fillStyle='rgba(0,0,0,.18)';ctx.fillRect(0,0,cv.width,py);ctx.setTransform(R,0,0,R,0,DY*R)}if(paused){ctx.fillStyle='rgba(20,8,32,.7)';ctx.fillRect(0,-DY,W,VH);tx('DURAKLATILDI',CX,380,48,'#ffd54f');tx('Devam için dokun veya P',CX,430,22,'#fff')}if(adT>0){adT-=dt;ctx.fillStyle='rgba(0,0,0,.88)';ctx.fillRect(0,0,W,H);tx('REKLAM (DEMO)',CX,380,36,'#fff');tx(''+Math.ceil(adT),CX,450,60,'#ffd54f');if(adT<=0&&adCb){const f=adCb;adCb=null;f()}}if(spl>0)drawIntro(dt);if(tut.on&&st=='play')tutDraw();requestAnimationFrame(loop)}
+let warmI=0,fb=0,fc=0;
+function warm(){if(warmI<4)wallTex(warmI);warmI++}
+function loop(n){const dt=Math.max(0,Math.min(.05,(n-last)/1000));last=n;if(warmI<8&&(spl>0||st=='menu'||st=='ob'))warm();if(Q=='high'&&st=='play'&&!paused&&g.cd<=0&&dt>0){fb+=dt;fc++;if(fb>4){if(fc/fb<30){Q='low';setQ();sv()}fb=fc=0}}if(dt>0)fpsV+=(1/dt-fpsV)*.05;if(Q===''&&st=='play'&&!paused&&g.cd<=0){fa+=dt;fn++;if(fa>5){if(fn/fa<40){Q='low';setQ();g.msg='Grafik: Düşük (Ayarlar)';g.msgT=3}else Q='high';sv();fa=fn=0}}adMsgT=Math.max(0,adMsgT-dt);ctx.setTransform(R,0,0,R,0,DY*R);if(!paused)update(dt);if(DY>0){const bg=ctx.createLinearGradient(0,H-60,0,H+DY);bg.addColorStop(0,'#4e342e');bg.addColorStop(1,'#241410');ctx.fillStyle=bg;ctx.fillRect(0,H-60,W,DY+60)}render();if(DY>0){ctx.setTransform(1,0,0,1,0,0);const py=Math.round(DY*R),by=py+Math.round(H*R),ph=cv.height-by;ctx.drawImage(cv,0,py+2,cv.width,1,0,0,cv.width,py+2);ctx.fillStyle='rgba(0,0,0,.18)';ctx.fillRect(0,0,cv.width,py);ctx.setTransform(R,0,0,R,0,DY*R)}if(paused){ctx.fillStyle='rgba(20,8,32,.7)';ctx.fillRect(0,-DY,W,VH);tx('DURAKLATILDI',CX,380,48,'#ffd54f');tx('Devam için dokun veya P',CX,430,22,'#fff')}if(adT>0){adT-=dt;ctx.fillStyle='rgba(0,0,0,.88)';ctx.fillRect(0,0,W,H);tx('REKLAM (DEMO)',CX,380,36,'#fff');tx(''+Math.ceil(adT),CX,450,60,'#ffd54f');if(adT<=0&&adCb){const f=adCb;adCb=null;f()}}if(spl>0)drawIntro(dt);if(tut.on&&st=='play')tutDraw();requestAnimationFrame(loop)}
 requestAnimationFrame(loop);
 </script></body></html>

diff --git a/docs/LEADERBOARD.md b/docs/LEADERBOARD.md
@@ -35,7 +35,7 @@ Oyundaki SKOR ekranı üç sekmedir: CİHAZ, DÜNYA, HAFTALIK. Dünya/haftalık 
 
 ## Haftalık sıralama
 - Hafta pazartesi başlar. Her koşuda o haftanın en iyi skorun `weekly/<hafta>/<kimlik>` altına yazılır.
-- Yeni hafta başlayınca oyun, geçen haftanın ilk 3'ünü kontrol eder: 1. 10 elmas, 2. 5 elmas, 3. 3 elmas (bir kez verilir).
+- Yeni hafta başlayınca oyun, geçen haftanın 1.'sini kontrol eder: 1. olan 3 elmas kazanır (bir kez verilir). Skor tablosunda yalnızca Dünya ve Haftalık sekmeleri vardır.
 
 ## Satın alımlar
 Satın alımlar artık Firebase üzerinden değil, **Google Play Faturalandırma** ile yapılır. Kurulum için `docs/PLAY_STORE.md`'ye bak.
